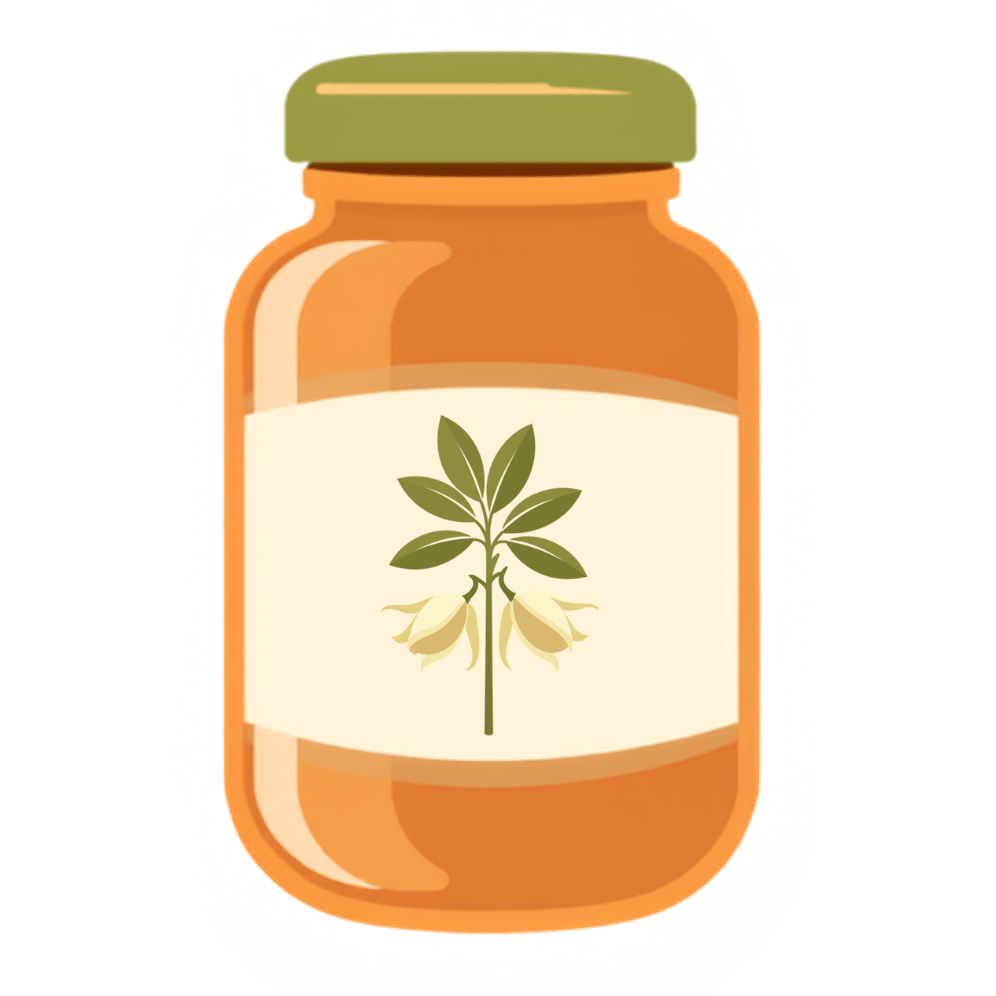
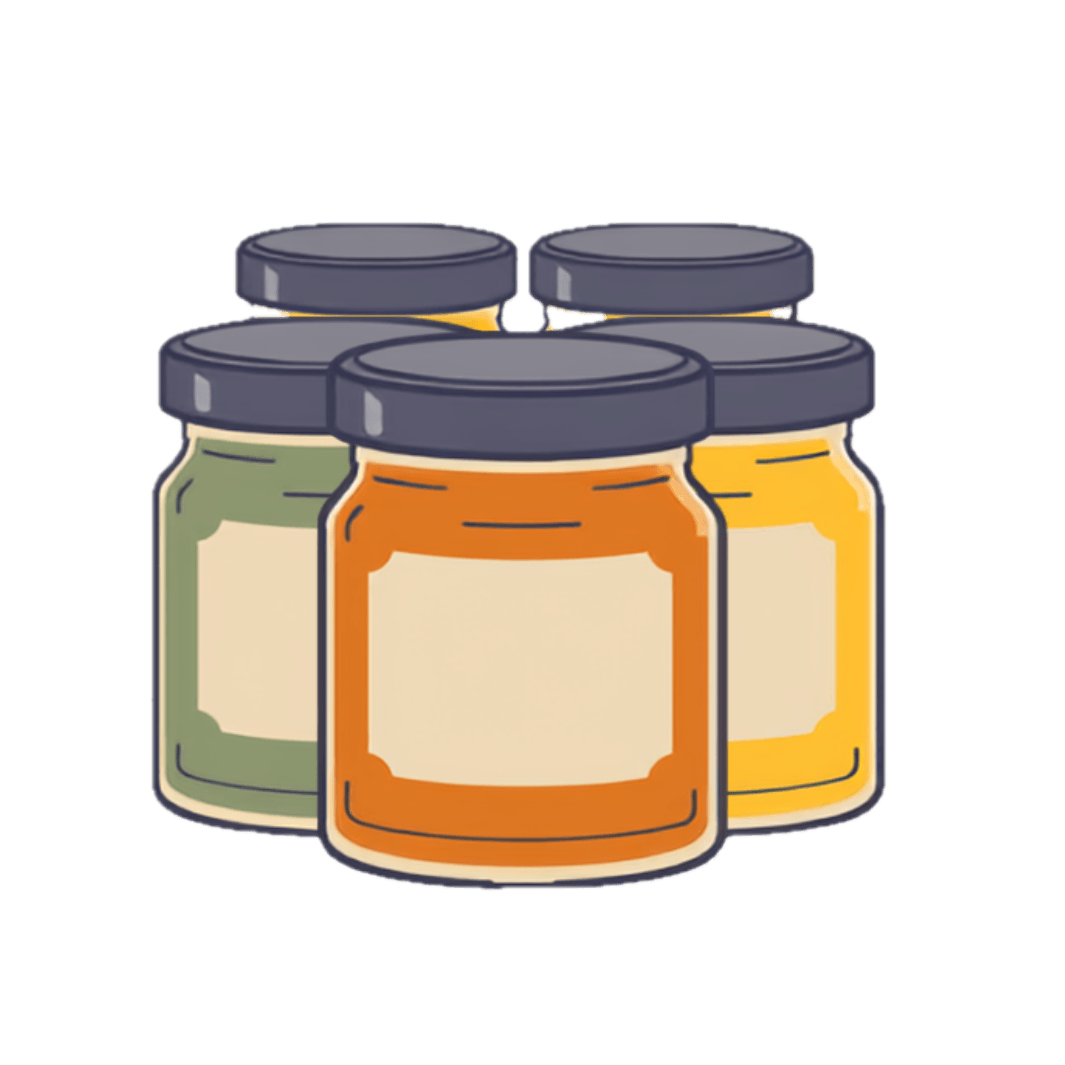
update the ingredient image design for design asthetics

diff --git a/src/app/globals.css b/src/app/globals.css
@@ -42,7 +42,7 @@ body {
 }
 
 .jar-icon {
-  width: 96px;
+  width: 144px;
   height: auto;
   margin-bottom: 16px;
   transition: transform 0.15s ease;